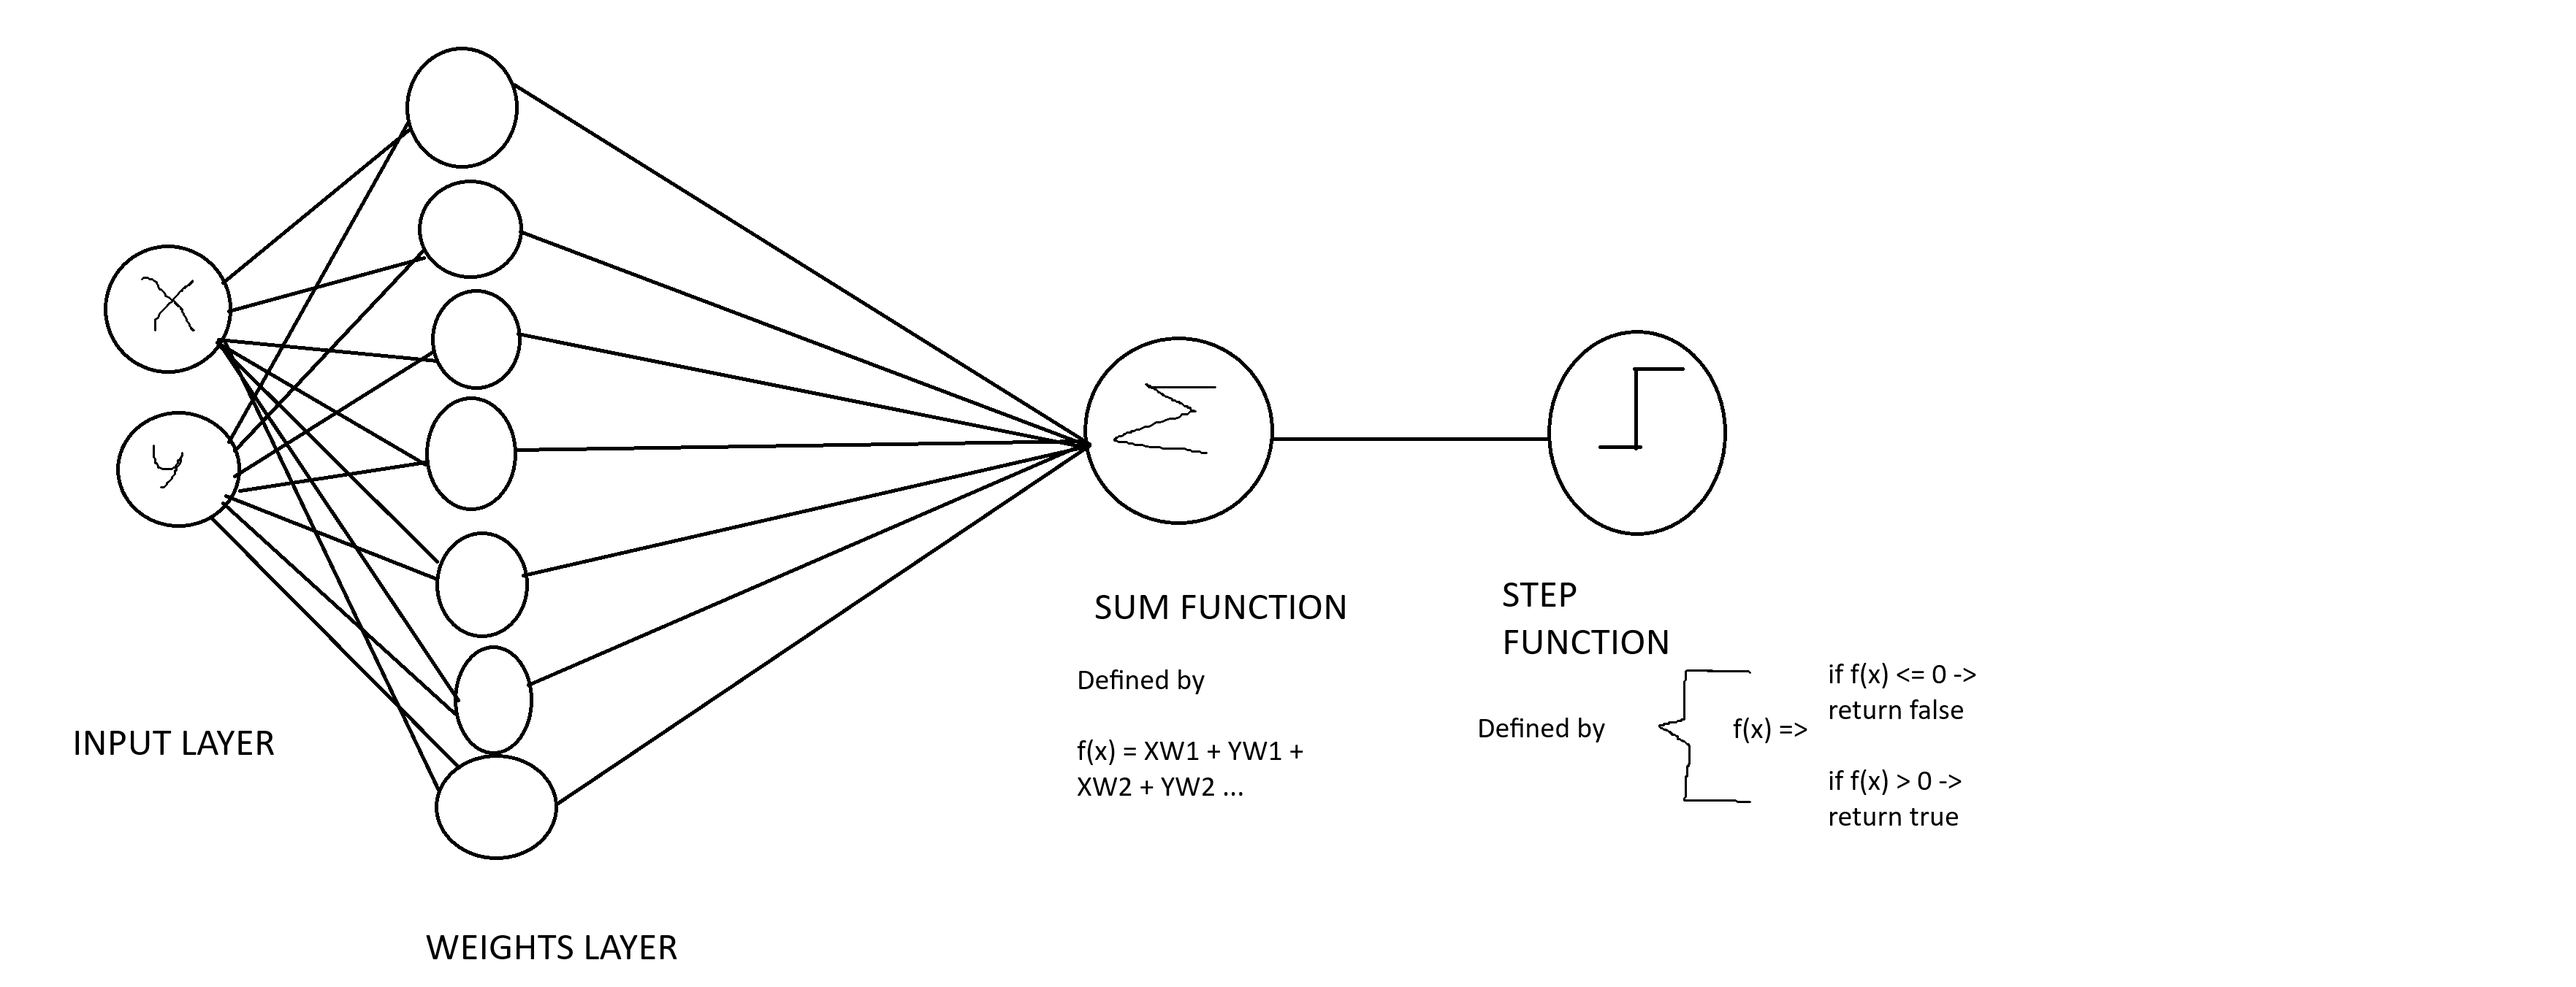
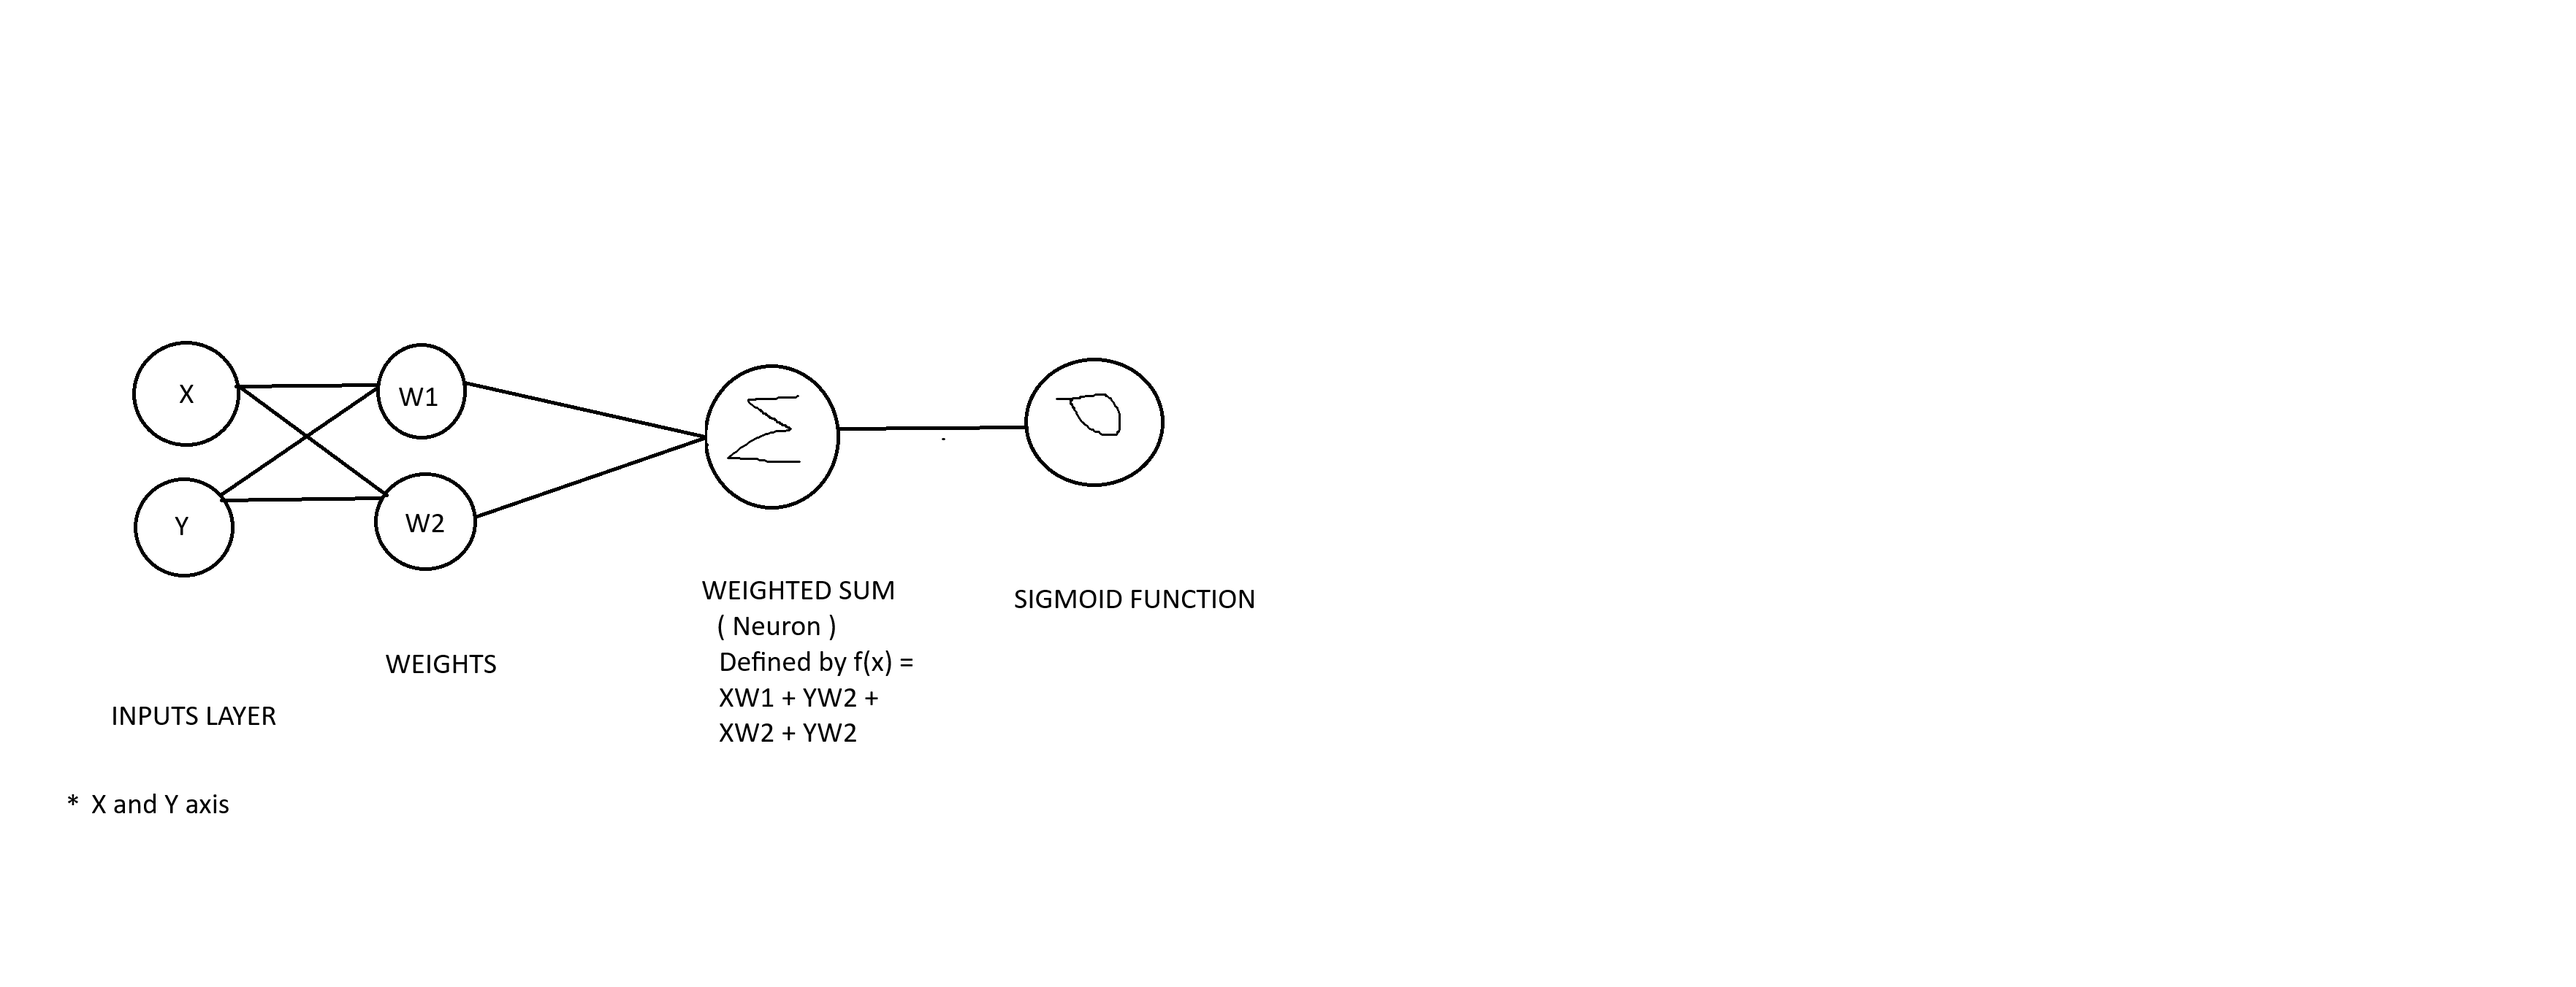
Feat: added a imcomplete yet updated version of the model of the ai

diff --git a/perceptron/absolute_destruction/main.py b/perceptron/absolute_destruction/main.py
@@ -2,7 +2,7 @@ import random
 import time
 import pygame
 
-class ai:
+class bot:
     def __init__(self):
         self.weights = []
         self.pos = pygame.Vector2(0,0)
@@ -32,6 +32,9 @@ clock = pygame.time.Clock()
 running = True
 dt = 0
 
+for in range(500):
+
+
 while running:
     for event in pygame.event.get():
         if event.type == pygame.QUIT:
@@ -40,10 +43,10 @@ screen.fill("white")
 pygame.display.flip()
 dt = clock.tick(60) / 1000
 for i in range(500):
+    
 
 
-
-
+    
 pygame.quit()
 
 
